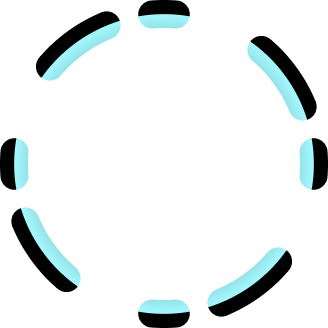
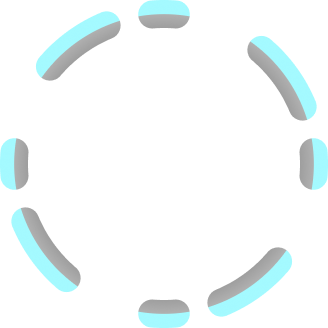
Got loading animation woriking with custom spinner

diff --git a/MainPage.xaml b/MainPage.xaml
@@ -16,6 +16,7 @@
             </Grid.ColumnDefinitions>
             <Grid
                 Grid.Column="0"
+                BackgroundColor="white"
                 >
                 <Grid.RowDefinitions>
                     <RowDefinition Height="60" />
@@ -168,6 +169,7 @@
                                 ></Label>
                 </Grid>
                 <CollectionView
+                    IsVisible="{Binding IsFileDataRowsLoaded}"
                     ItemsSource="{Binding FileDataRows}"
                     Background="White"
                     Grid.Row="2"
@@ -280,10 +282,16 @@
                                             ></Label>
                                 </Grid>
                             </Border>
-                            
                         </DataTemplate>
                     </CollectionView.ItemTemplate>
                 </CollectionView>
+                <Image
+                    IsVisible="{Binding IsFileDataRowsNotLoaded}"
+                    Grid.Row="2"
+                    HeightRequest="300"
+                    WidthRequest="300"
+                    x:Name="FDRLoadingEllipse"
+                    Source="loading_ellipse.png"></Image>
             </Grid>
             <Grid
                 Background="#ECF7F9"

diff --git a/ViewModel/MainViewModel.cs b/ViewModel/MainViewModel.cs
@@ -40,6 +40,10 @@ public partial class MainViewModel : BaseViewModel
 
     [ObservableProperty]
     bool allSelected = false;
+    [ObservableProperty]
+    public bool isFileDataRowsLoaded = true;
+    [ObservableProperty]
+    public bool isFileDataRowsNotLoaded = false;
 
     [ObservableProperty]
     public bool isSourceFolderPresent = false;
@@ -75,7 +79,7 @@ public partial class MainViewModel : BaseViewModel
             {
                 SourceFolders.Add(sourceFolder);
             }
-            GetFiles(sourceFolders[0].FilePath);
+            await GetFiles(sourceFolders[0].FilePath);
             if (CategoriesBaseFilePath.Length > 0) { GetCategoryGroup(CategoriesBaseFilePath); }
             await Task.Run(() => { OnPropertyChanged(nameof(SourceFolders)); });
             await Task.Run(() => { OnPropertyChanged(nameof(CurrentSourceFolderPath)); });
@@ -108,7 +112,7 @@ public partial class MainViewModel : BaseViewModel
             await Task.Run(() => { OnPropertyChanged(nameof(CurrentSourceFolderPath)); });
             await Task.Run(() => { OnPropertyChanged(nameof(IsSourceFolderPresent)); });
                 
-            GetFiles(sourceFolder.FilePath);
+            await GetFiles(sourceFolder.FilePath);
         }
         catch (Exception ex)
         {
@@ -148,57 +152,69 @@ public partial class MainViewModel : BaseViewModel
 
 
     [RelayCommand]
-    public void GetFiles(string filePath)
+    public async Task GetFiles(string filePath)
     {
         try
         {
-            for (int i = 0; i < SourceFolders.Count; i++)
+            IsFileDataRowsLoaded = false;
+            IsFileDataRowsNotLoaded = true;
+            OnPropertyChanged(nameof(IsFileDataRowsLoaded));
+            OnPropertyChanged(nameof(IsFileDataRowsNotLoaded));
+            await Task.Run(() =>
             {
-                SourceFolders[i].IsSelected = false;
-                if (SourceFolders[i].FilePath== filePath)
+                for (int i = 0; i < SourceFolders.Count; i++)
                 {
-                    SourceFolders[i].IsSelected = true;
+                    SourceFolders[i].IsSelected = false;
+                    if (SourceFolders[i].FilePath == filePath)
+                    {
+                        SourceFolders[i].IsSelected = true;
+                    }
                 }
-            }
-            CurrentSourceFolderPath = filePath;
-            FileDataRows.Clear();
-            OnPropertyChanged("FileDataRows");
-            List<FileDataRow> dataRows = fileDataRowService.GetFileDataRows(filePath);
-            foreach (var dataRow in dataRows) {
-                if (dataRow.HasPlayer == true)
+                CurrentSourceFolderPath = filePath;
+                FileDataRows.Clear();
+                OnPropertyChanged("FileDataRows");
+                List<FileDataRow> dataRows = fileDataRowService.GetFileDataRows(filePath);
+                foreach (var dataRow in dataRows)
                 {
-                    string seconds = "";
-                    string minutes = "";
-                    if (dataRow.Player.Duration >= 60)
+                    if (dataRow.HasPlayer == true)
                     {
-                        seconds = (Convert.ToInt32(dataRow.Player.Duration) % 60).ToString();
-                        minutes = Math.Floor((Convert.ToDecimal(dataRow.Player.Duration) / 60)).ToString();
+                        string seconds = "";
+                        string minutes = "";
+                        if (dataRow.Player.Duration >= 60)
+                        {
+                            seconds = (Convert.ToInt32(dataRow.Player.Duration) % 60).ToString();
+                            minutes = Math.Floor((Convert.ToDecimal(dataRow.Player.Duration) / 60)).ToString();
+                        }
+                        else { seconds = Math.Floor(Convert.ToDecimal(dataRow.Player.Duration)).ToString(); }
+                        if (seconds.Length == 1)
+                        {
+                            seconds = $"0{seconds}";
+                        }
+                        dataRow.Length = $"{minutes}:{seconds}";
+                        if (dataRow.Player != null && dataRow.Player.Duration > 0) { dataRow.BitRate = Math.Floor(((Convert.ToDecimal(dataRow.Size) / 1000 * 8) / (Convert.ToDecimal(dataRow.Player.Duration)))).ToString(); }
+                        decimal DRSize = Math.Floor(Convert.ToDecimal(dataRow.Size) / 1000);
+                        if (DRSize > 1000)
+                        {
+                            dataRow.Size = $"{Math.Round(DRSize / 1000, 2)} MB";
+                        }
+                        else { dataRow.Size = $"{DRSize} kB"; }
                     }
-                    else { seconds = Math.Floor(Convert.ToDecimal(dataRow.Player.Duration)).ToString(); }
-                    if (seconds.Length == 1)
-                    {
-                        seconds = $"0{seconds}";
-                    }
-                    dataRow.Length = $"{minutes}:{seconds}";
-                    if (dataRow.Player != null && dataRow.Player.Duration > 0) { dataRow.BitRate = Math.Floor(((Convert.ToDecimal(dataRow.Size) / 1000 * 8) / (Convert.ToDecimal(dataRow.Player.Duration)))).ToString(); }
-                    decimal DRSize = Math.Floor(Convert.ToDecimal(dataRow.Size) / 1000);
-                    if (DRSize > 1000)
-                    {
-                        dataRow.Size = $"{Math.Round(DRSize / 1000, 2)} MB";
-                    }
-                    else { dataRow.Size = $"{DRSize} kB"; }
-                }
-                
-                FileDataRows.Add(dataRow); 
-            };
-            AllSelected = false;
-            OnPropertyChanged("FileDataRows");
-            OnPropertyChanged();
+
+                    FileDataRows.Add(dataRow);
+                };
+                AllSelected = false;
+                IsFileDataRowsLoaded = true;
+                IsFileDataRowsNotLoaded = false;
+                OnPropertyChanged(nameof(IsFileDataRowsLoaded));
+                OnPropertyChanged(nameof(IsFileDataRowsNotLoaded));
+                OnPropertyChanged("FileDataRows");
+                OnPropertyChanged();
+            });
         }
         catch (Exception ex)
         { 
             Debug.WriteLine( ex );
-            Shell.Current.DisplayAlert("Error!", $"{ex.Message}", "OK");
+            await Shell.Current.DisplayAlert("Error!", $"{ex.Message}", "OK");
         }
     }
 
@@ -231,7 +247,7 @@ public partial class MainViewModel : BaseViewModel
     }
 
     [RelayCommand]
-    public void FDRNameChanged(string inputText)
+    public async Task FDRNameChanged(string inputText)
     {
         try
         {
@@ -258,17 +274,17 @@ public partial class MainViewModel : BaseViewModel
                             }
                             string newFilePath = $"{CurrentSourceFolderPath}\\{inputText}{FileDataRows[i].Format}";
                             Directory.Move(FileDataRows[i].FilePath, newFilePath);
-                            GetFiles(CurrentSourceFolderPath);
+                            await GetFiles(CurrentSourceFolderPath);
                         }
                         else
                         {
-                            Shell.Current.DisplayAlert("Error!", $"The {inputText} file already exists!", "OK");
+                            await Shell.Current.DisplayAlert("Error!", $"The {inputText} file already exists!", "OK");
                         }
                     }
                     catch (Exception ex)
                     {
                         Debug.WriteLine(ex);
-                        Shell.Current.DisplayAlert("Error!", $"{ex.Message}", "OK");
+                        await Shell.Current.DisplayAlert("Error!", $"{ex.Message}", "OK");
                     }
 
                 }
@@ -280,7 +296,7 @@ public partial class MainViewModel : BaseViewModel
         catch (Exception ex)
         {
             Debug.WriteLine(ex);
-            Shell.Current.DisplayAlert("Error!", $"{ex.Message}", "OK");
+            await Shell.Current.DisplayAlert("Error!", $"{ex.Message}", "OK");
         }
     }
 
@@ -361,7 +377,7 @@ public partial class MainViewModel : BaseViewModel
                 CategoriesBaseFilePath = fileDirectory.Path;
                 OnPropertyChanged(nameof(CategoriesBaseFilePath));
 
-                GetFiles(SourceFolders[0].FilePath);
+                await GetFiles(SourceFolders[0].FilePath);
             }
             else
             {
@@ -583,9 +599,8 @@ public partial class MainViewModel : BaseViewModel
             await Task.Run(() =>
             {
                 files.ForEach((file) => File.Move(file.FilePath, $"{ActiveCategoryFilePath}\\{file.FileName}{file.Format}"));
-                GetFiles(CurrentSourceFolderPath);
             });
-            
+            await GetFiles(CurrentSourceFolderPath);
         }
         catch(Exception ex)
         {
@@ -611,7 +626,7 @@ public partial class MainViewModel : BaseViewModel
                     }
                 }
                 files.ForEach((file) => File.Delete(file.FilePath));
-                GetFiles(CurrentSourceFolderPath);
+                await GetFiles(CurrentSourceFolderPath);
             }
             else { return; }
         }

diff --git a/MainPage.xaml.cs b/MainPage.xaml.cs
@@ -14,6 +14,8 @@ public partial class MainPage : ContentPage
 {
 	private MainViewModel viewModel;
 
+    readonly Animation rotation;
+
 	public MainPage(MainViewModel mainViewModel)
     {
         InitializeComponent();
@@ -23,6 +25,22 @@ public partial class MainPage : ContentPage
         {
             await viewModel.OnAppStartup();
         });
+        rotation = new Animation(v => FDRLoadingEllipse.Rotation = v, 0, 360, Easing.Linear);
+        viewModel.PropertyChanged += ViewModel_PropertyChanged;
+    }
+
+    private void ViewModel_PropertyChanged(object sender, System.ComponentModel.PropertyChangedEventArgs e)
+    {
+        if (e.PropertyName == nameof(viewModel.IsFileDataRowsNotLoaded))
+        {
+            if (viewModel.IsFileDataRowsNotLoaded == true)
+            {
+                rotation.Commit(this, "rotate", 16, 1000, Easing.Linear, (v, c) => FDRLoadingEllipse.Rotation = 0, () => true);
+            } else
+            {
+                this.AbortAnimation("rotate");
+            }
+        }
     }
 
     public void OnSelectAllChanged(object sender, CheckedChangedEventArgs e)
